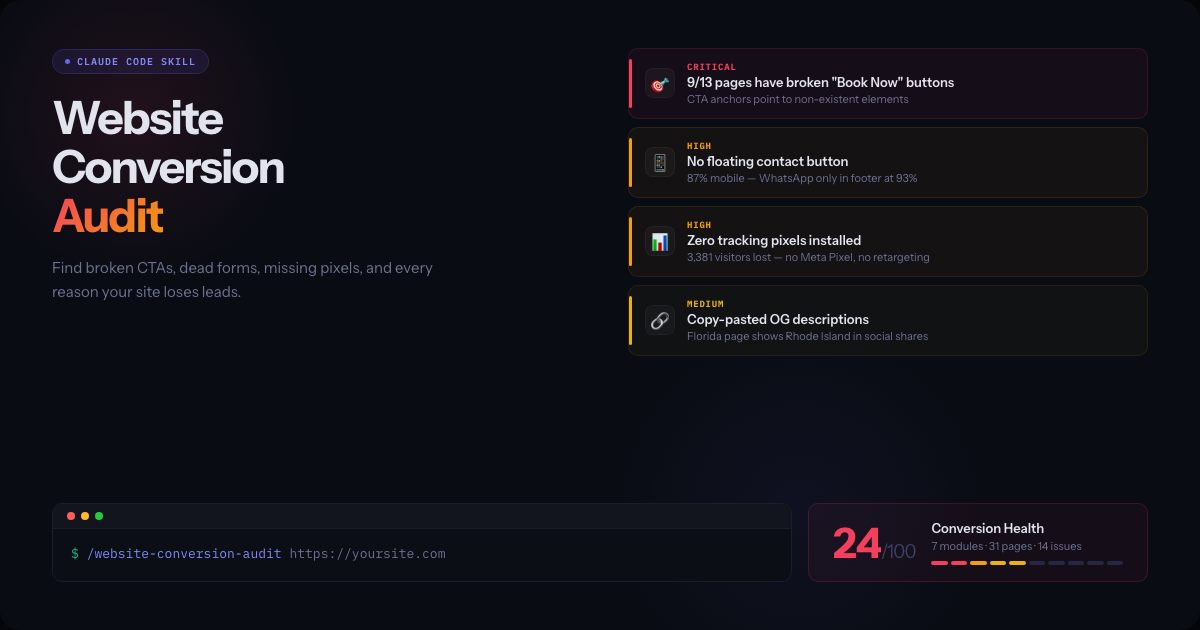
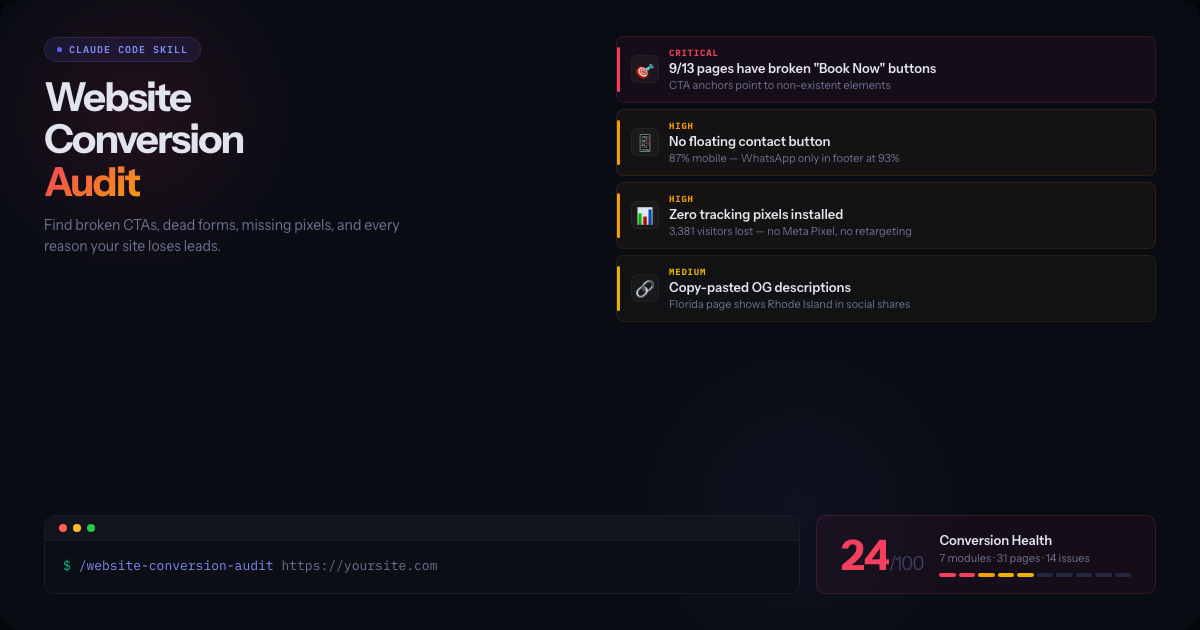
Denser card layout — reduce padding, gaps, font sizes
Padding 48->36, gaps 8->6, h1 46->40, tagline 15->14, findings
padding 12->10, icons 30->28, bottom margin 20->12. Everything
fills the 1200x630 frame tighter with less dead space.

diff --git a/telegram-card.html b/telegram-card.html
@@ -25,9 +25,10 @@ body {
   border-radius: 20px;
   overflow: hidden;
   position: relative;
-  padding: 48px 52px;
+  padding: 36px 44px;
   display: flex;
   flex-direction: column;
+  justify-content: space-between;
 }
 
 /* Ambient glows */
@@ -58,10 +59,9 @@ body {
   display: flex;
   align-items: flex-start;
   justify-content: space-between;
-  gap: 48px;
+  gap: 32px;
   position: relative;
   z-index: 1;
-  flex: 1;
 }
 
 .top-left {
@@ -83,7 +83,7 @@ body {
   color: #818cf8;
   letter-spacing: 1px;
   text-transform: uppercase;
-  margin-bottom: 20px;
+  margin-bottom: 14px;
 }
 
 .badge::before {
@@ -95,12 +95,12 @@ body {
 }
 
 h1 {
-  font-size: 46px;
+  font-size: 40px;
   font-weight: 800;
   line-height: 1.06;
   letter-spacing: -1.8px;
   color: #e2e4ed;
-  margin-bottom: 16px;
+  margin-bottom: 12px;
 }
 
 h1 em {
@@ -111,9 +111,9 @@ h1 em {
 }
 
 .tagline {
-  font-size: 15px;
+  font-size: 14px;
   color: #6d7290;
-  line-height: 1.55;
+  line-height: 1.5;
 }
 
 /* ─── FINDINGS (right side of top) ─── */
@@ -121,16 +121,16 @@ h1 em {
   flex: 1;
   display: flex;
   flex-direction: column;
-  gap: 8px;
-  max-width: 520px;
+  gap: 6px;
+  max-width: 540px;
 }
 
 .finding {
   display: flex;
   align-items: center;
-  gap: 12px;
-  padding: 12px 16px;
-  border-radius: 10px;
+  gap: 10px;
+  padding: 10px 14px;
+  border-radius: 8px;
   border: 1px solid;
   position: relative;
 }
@@ -166,9 +166,9 @@ h1 em {
 
 .finding-icon {
   flex-shrink: 0;
-  width: 30px;
-  height: 30px;
-  border-radius: 8px;
+  width: 28px;
+  height: 28px;
+  border-radius: 6px;
   display: flex;
   align-items: center;
   justify-content: center;
@@ -212,7 +212,7 @@ h1 em {
   gap: 16px;
   position: relative;
   z-index: 1;
-  margin-top: 20px;
+  margin-top: 12px;
 }
 
 .terminal {
